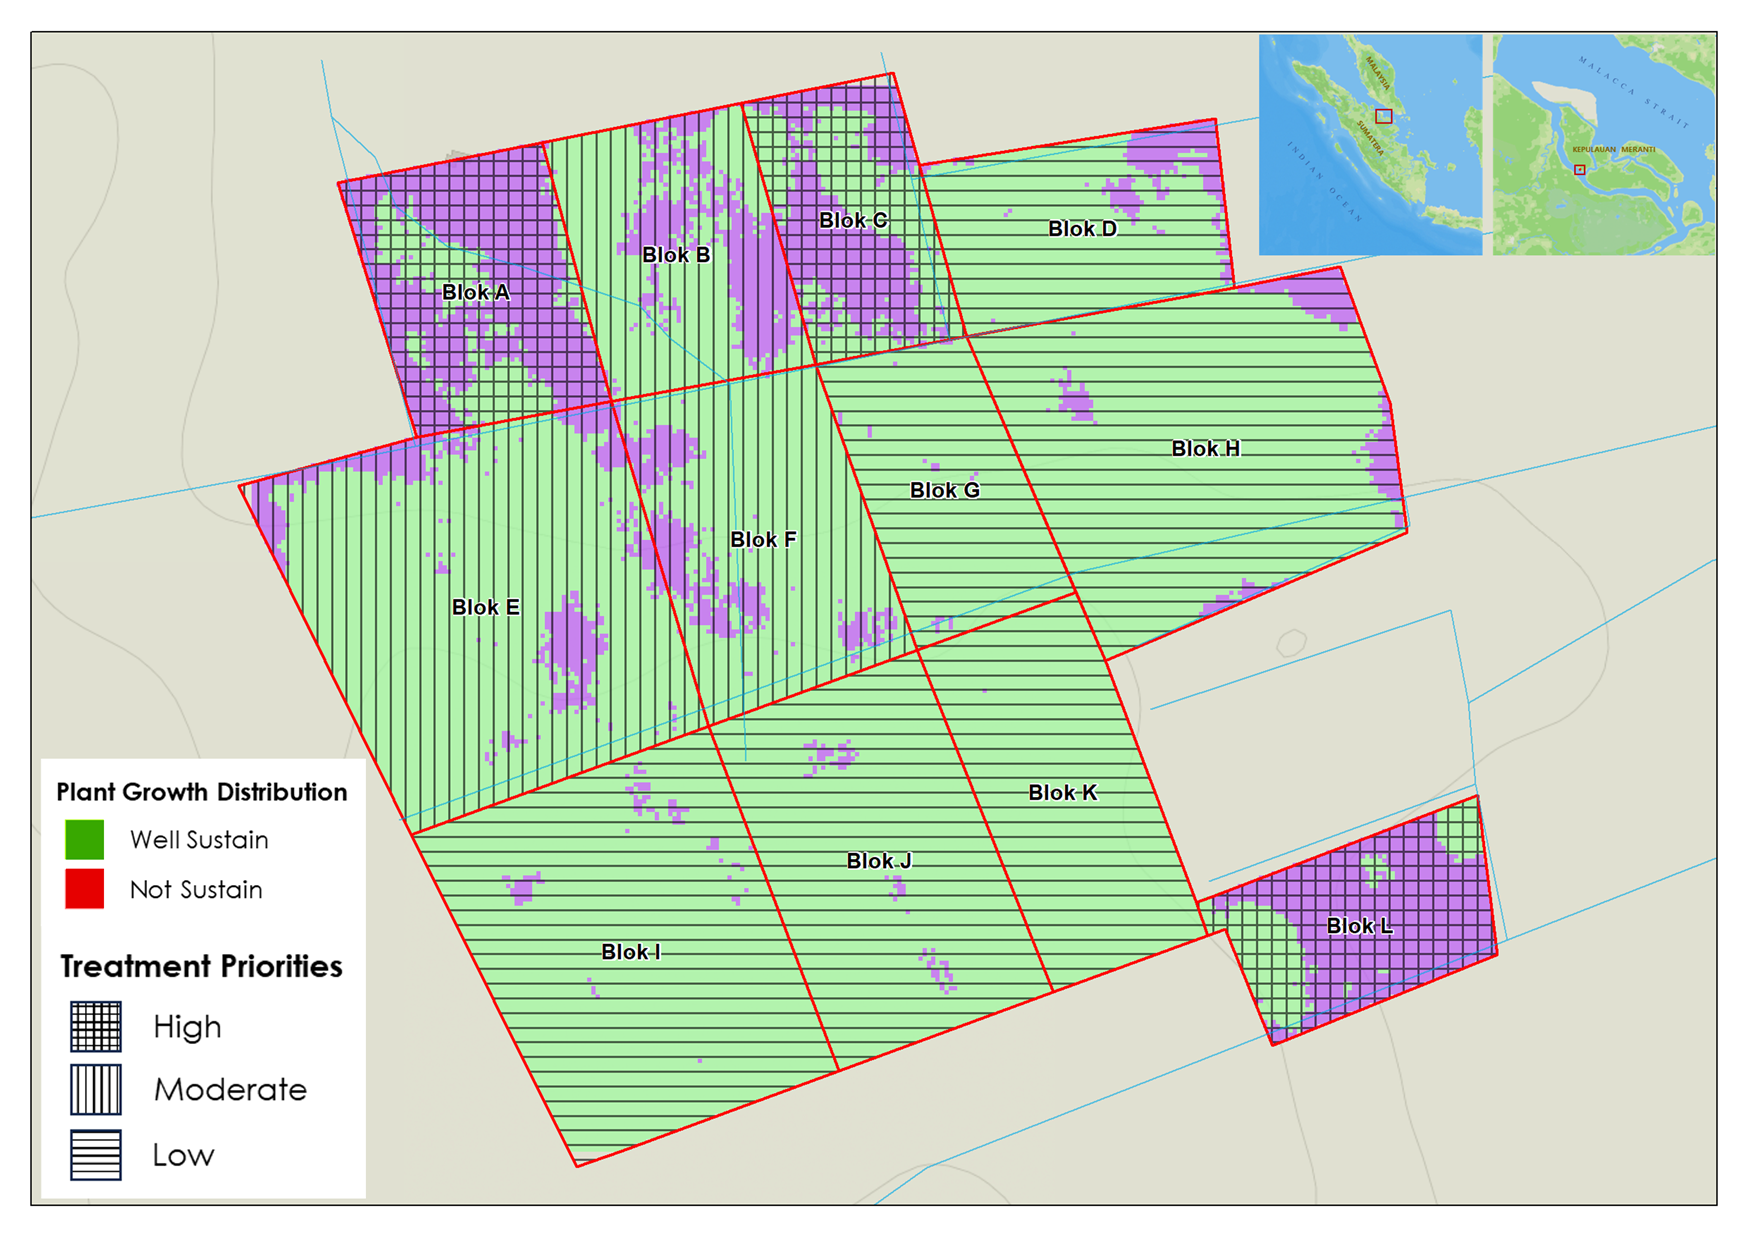
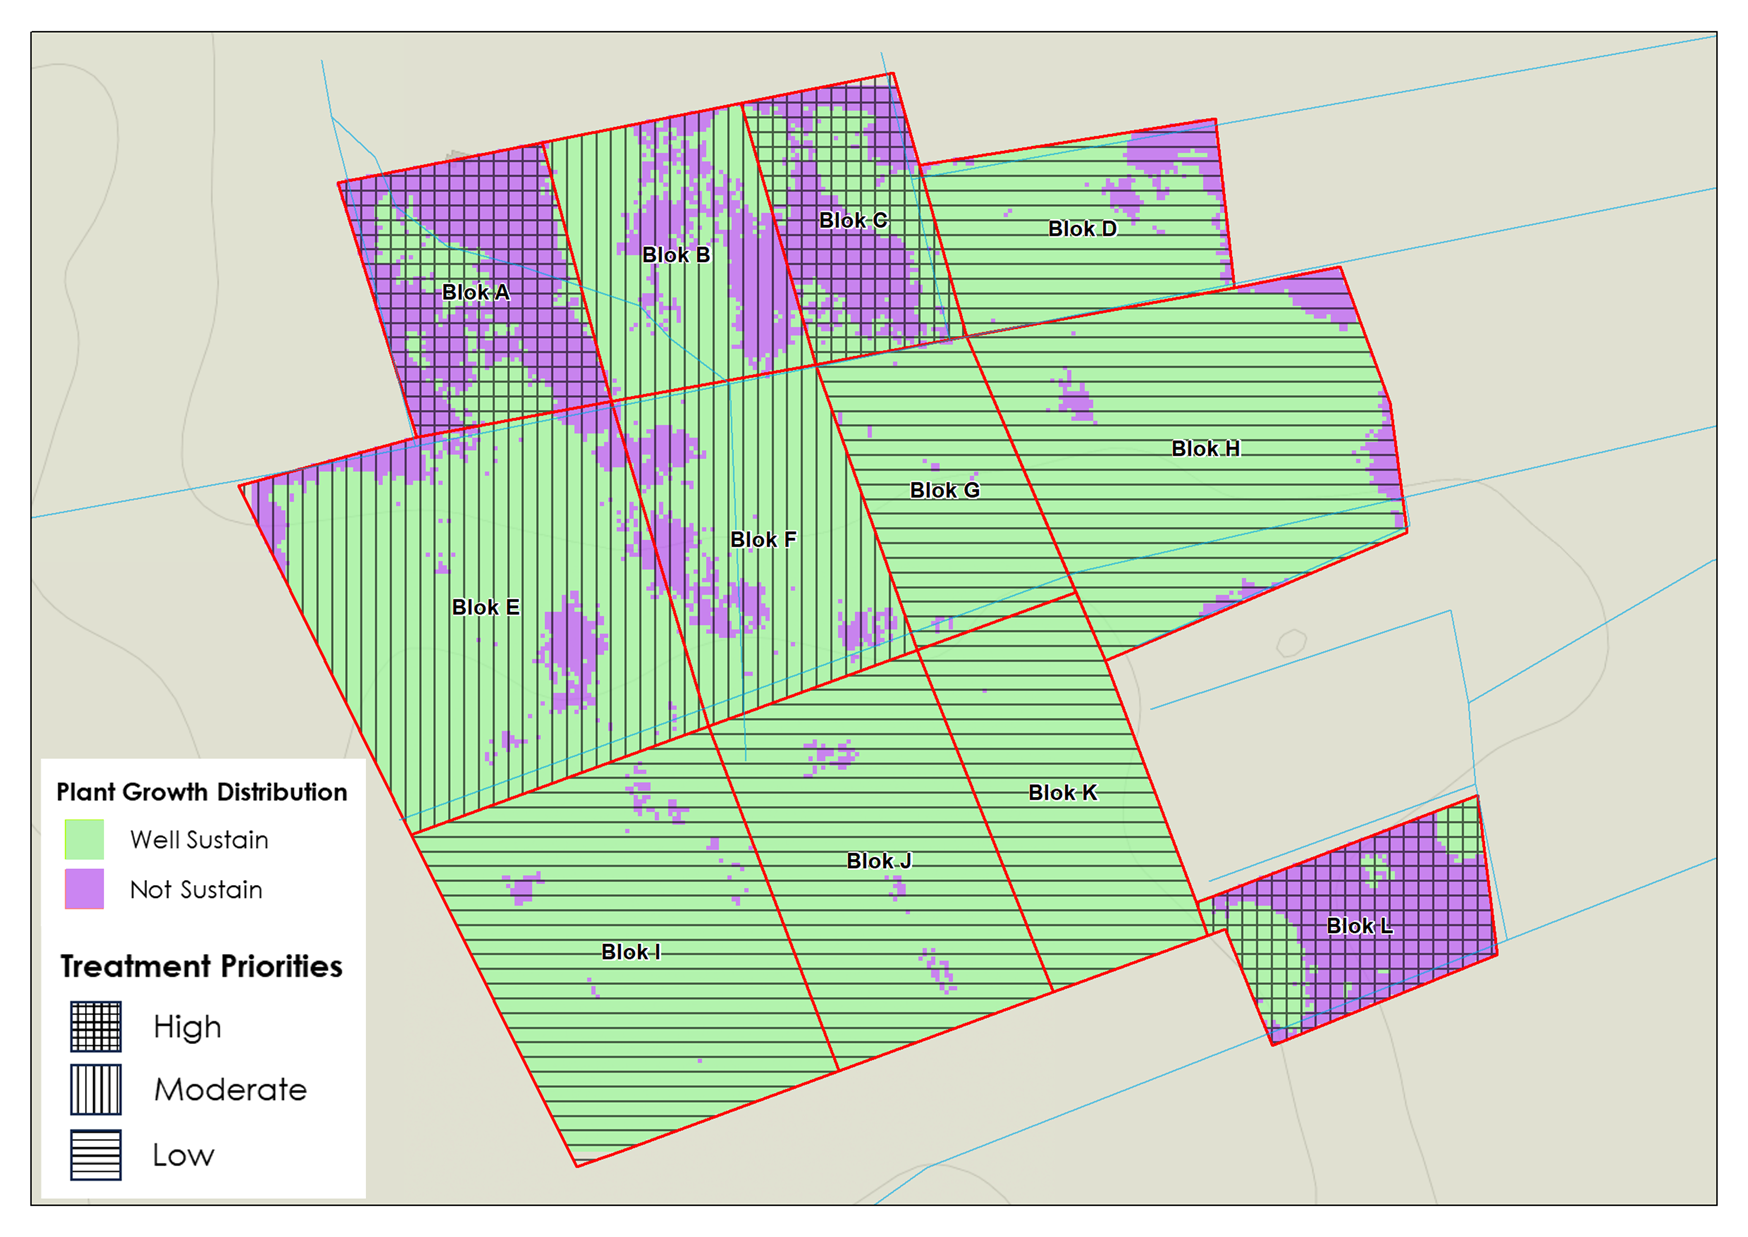
update content

Changed region(s): [[0.7105, 0.0, 0.9886, 0.215], [0.0309, 0.6451, 0.0618, 0.7373]]

diff --git a/portfolio/impact-assessment-for-peatland-canal-blocking.html b/portfolio/impact-assessment-for-peatland-canal-blocking.html
@@ -40,6 +40,23 @@
     justify-content: center;
 }
 
+.video-container {
+    width: 100%;
+    height: auto;
+    margin: 30px auto;
+    display: block;
+    align-items: center;
+    justify-content: center;
+    aspect-ratio: 16 / 9;
+}
+
+.video-container iframe {
+    width: 100%;
+    height: 100%;
+    border: none;
+    display: block;
+}
+
 /* TANGGAL */
 .article-date {
     font-size: 14px;
@@ -275,7 +292,7 @@ Works <span class="arrow">▾</span>
 <h2>Peatland Canal Blocking Impact Assessment</h2>
 
 <p class="article-date">
-Sat 28 Mar 2026 • 16:19 GMT by Spatiality
+Mon 6 Jun 2023 • 16:19 GMT by Spatiality
 </p>
 
 <div class="image-container">
@@ -288,21 +305,34 @@ Dipwell Specification and Placement Configuration.
 </p>
 
 <p>
-Back in my organization, MPA were fascilitate to execute some procedures to reduce the risk or peatland wildfire. The activities includes daily monitoring on dry season, wetting the peatland, and not limited to extinguish the hotspot. Wetting the peatland during dry season is exhausting and require operation expenses. To claim the expense, MPA group must create a report of their activity including the geotagged photo documentation. The hard work come after dozens of reports need to be verified by GIS officer. 
+Peatland hydrological system is quite unique and complex. Unlike watershed system, peatland system is more like a sponge, divided by major rivers as a peat hydrological unit. If watershed management is commonly focused on how to manage the water flow, peatland management is more focused on how to maintain the water level. The water level in peatland is crucial to maintain the ecosystem and prevent the risk of wildfire. One of the common practices to maintain the water level is by blocking the canal that was built for drainage or transportation.
+
 </p>
 
 <p>
-Bored seeing my co worker keep themselves busy doing so, I build a reporting app using ArcGIS Survey123 that can be filled out through browser or app wether offline or online. The workflow is simple, the mpa group only fill out the data required, photos, and their coordinate of activity, all in one app. The report can be stored to memory which later can be submitted once their device is online. The submitted report can be monitored through dashboard and the report can be generated in a single click to pdf.
+So, how does it work? The canal blocking is done by building a dam in the canal, then the water will be blocked and the water level will be maintained. The dam is built by using a material that can partially blocks water, like peat, wood, or membrane. The dam is built in a way that it can block water and maintain the water level, but it can also allow some water to flow through it to prevent flooding. Check the video below to learn how the canal blocking works
 </p>
 
+<div class="video-container">
+    <iframe
+        width="560"
+        height="315"
+        src="https://www.youtube.com/embed/_Xv_HR-CpUE"
+        title="YouTube video player"
+        frameborder="0"
+        allowfullscreen>
+    </iframe>
 </div>
-</div>
+<p class="image-caption">
+Rewetting The Degraded Peatland Through Canal BLocking.
+<span class="photo-credit">Documentation by Spatiality</span>
+</p>
 
 <p>
-This app is not limited to a specific activity. Other uses like inventory, census, scientific survey, etc can be implemented using this app.
+I engage local communities to install the diwpells nearby the canal blocking site to monitor the water level. The diwpells are installed in a way that they can measure the water level in the peatland and the canal, so we can compare the water level before and after the canal blocking. Dipwells should be installed before the canal blocking is built to get the baseline data, and then after the canal blocking is finished to get the impact data. The data should be collected during the dry season to avoid disturbance input from rainfall. The data collected from the diwpells will be used to assess the impact of the canal blocking on the water level in the peatland and the canal. The data will be analyzed to see if there is a significant change in the water level after the canal blocking, and if there is a significant change, we can conclude that the canal blocking has an impact on the water level in the peatland and the canal.
 </p>
 
-<h2>Custom Toolbox</h2>
+<h2>Monitoring Setup</h2>
 
 <div class="background-section">
 
@@ -315,10 +345,42 @@ Installation, Data Collecting, and Analysis.
 <span class="photo-credit">Documentation by Spatiality</span>
 </p>
 
+<h2>Result</h2>
+
 <p>
-As they go all the place to map farmer’s land, I build a toolbox to automate the data compilation processing in bulk. The workflow is simple but require some lines of python code for additional process. The exported data from Avenza Map is in kmz, I converted to shapefile then input it to the toolbox to do all the hard work. These are data structure tidying, codification, calculating area, pull data for land zone utilization, peatland, concession, and built up coverage.
+So, there are two water level data, the baseline and the impact. Both data were interpolated to get the water level distribution in the peatland and the canal. Then, the water level distribution before and after the canal blocking were calculated using cut and fill method to estimate the impacted area and water conserved during the dry season. See the water level profile graph below, the blue dashed line is the water level before the canal blocking, and the green dashed line is the water level after the canal blocking. The graph shows that there is a significant increase in the water level after the canal blocking, which indicates that the canal blocking has an impact on the water level in the peatland.
 
 </p>
+
+<div class="background-section">
+
+<div class="image-container">
+    <img src="../assets/media/PCB5.png" alt="Installation, Data Collecting, and Analysis">
+</div>
+
+<p class="image-caption">
+3d Section View Between Ground Layer and Water Level.
+<span class="photo-credit">Documentation by Spatiality</span>
+
+<div class="background-section">
+
+<div class="image-container">
+    <img src="../assets/media/PCB6.png" alt="Installation, Data Collecting, and Analysis">
+</div>
+
+<p class="image-caption">
+Water Table Distribution, Before (Left) and After (Right).
+<span class="photo-credit">Documentation by Spatiality</span>
+
+<div class="background-section">
+
+<div class="image-container">
+    <img src="../assets/media/PCB3.png" alt="Installation, Data Collecting, and Analysis">
+</div>
+
+<p class="image-caption">
+Water Level Profile Graph.
+<span class="photo-credit">Documentation by Spatiality</span>
 
 </div>
 
@@ -423,7 +485,7 @@ style="background-image:url('../assets/media/me.jpeg')"></div>
 <footer>
 
 <div class="copyright">
-© 2026 - Krishna Wijaya
+© 2026 - Spatiality
 </div>
 
 <div class="footer-icons">

diff --git a/portfolio/infrastructure-monitoring.html b/portfolio/infrastructure-monitoring.html
@@ -308,7 +308,7 @@ Monitoring Result.
 </p>
 
 <p>
-Once it’s all set, I generate a report including the monitoring results, repairment recommendations and its budget. See the picture below for the results from this monitoring assessment. The report is generated in a night, which was impossible back then when using a paper form. The report is used for internal use and also for the donor as the project’s accountability.
+Once it’s all set, I generate a report including the monitoring results, repairment recommendations and its budget. See the picture below for the results from this monitoring assessment. The report is generated in a night, which was impossible back then when using a paper form. The report is used for internal use and also for the donor as the project’s accountability. I also adopt this workflow for similar rapid assessment such as locating a new plot for new canal blocks establishment, dipwell monitoring, plantation monitoring, measuring land plot, and other inventory projects
 
 </p>
 
@@ -414,7 +414,7 @@ style="background-image:url('../assets/media/me.jpeg')"></div>
 <footer>
 
 <div class="copyright">
-© 2026 - Krishna Wijaya
+© 2026 - Spatiality
 </div>
 
 <div class="footer-icons">

diff --git a/portfolio/collaborative-mapping.html b/portfolio/collaborative-mapping.html
@@ -427,7 +427,7 @@ style="background-image:url('../assets/media/me.jpeg')"></div>
 <footer>
 
 <div class="copyright">
-© 2026 - Krishna Wijaya
+© 2026 - Spatiality
 </div>
 
 <div class="footer-icons">

diff --git a/portfolio/drone-mapping-for-mangrove-rehabilitation.html b/portfolio/drone-mapping-for-mangrove-rehabilitation.html
@@ -424,7 +424,7 @@ style="background-image:url('../assets/media/me.jpeg')"></div>
 <footer>
 
 <div class="copyright">
-© 2026 - Krishna Wijaya
+© 2026 - Spatiality
 </div>
 
 <div class="footer-icons">

diff --git a/portfolio/drone-mapping-for-revegetation-monitoring.html b/portfolio/drone-mapping-for-revegetation-monitoring.html
@@ -422,7 +422,7 @@ style="background-image:url('../assets/media/me.jpeg')"></div>
 <footer>
 
 <div class="copyright">
-© 2026 - Krishna Wijaya
+© 2026 - Spatiality
 </div>
 
 <div class="footer-icons">

diff --git a/portfolio/groundwater-flow-mapping.html b/portfolio/groundwater-flow-mapping.html
@@ -429,7 +429,7 @@ style="background-image:url('../assets/media/me.jpeg')"></div>
 <footer>
 
 <div class="copyright">
-© 2026 - Krishna Wijaya
+© 2026 - Spatiality
 </div>
 
 <div class="footer-icons">

diff --git a/portfolio/groundwater-vulnerability-assessment.html b/portfolio/groundwater-vulnerability-assessment.html
@@ -424,7 +424,7 @@ style="background-image:url('../assets/media/me.jpeg')"></div>
 <footer>
 
 <div class="copyright">
-© 2026 - Krishna Wijaya
+© 2026 - Spatiality
 </div>
 
 <div class="footer-icons">

diff --git a/portfolio/plant-cencus-mapping.html b/portfolio/plant-cencus-mapping.html
@@ -473,7 +473,7 @@ style="background-image:url('../assets/media/me.jpeg')"></div>
 <footer>
 
 <div class="copyright">
-© 2026 - Krishna Wijaya
+© 2026 - Spatiality
 </div>
 
 <div class="footer-icons">

diff --git a/portfolio/reporting-app.html b/portfolio/reporting-app.html
@@ -423,7 +423,7 @@ style="background-image:url('../assets/media/me.jpeg')"></div>
 <footer>
 
 <div class="copyright">
-© 2026 - Krishna Wijaya
+© 2026 - Spatiality
 </div>
 
 <div class="footer-icons">

diff --git a/portfolio/saltwater-intrusion-assessment.html b/portfolio/saltwater-intrusion-assessment.html
@@ -425,7 +425,7 @@ style="background-image:url('../assets/media/me.jpeg')"></div>
 <footer>
 
 <div class="copyright">
-© 2026 - Krishna Wijaya
+© 2026 - Spatiality
 </div>
 
 <div class="footer-icons">

diff --git a/about.html b/about.html
@@ -202,7 +202,7 @@ climate analysis</a>, standard carbon verification</li>
 <footer>
 
 <div class="copyright">
-© 2026 - Krishna Wijaya
+© 2026 - Spatiality
 </div>
 
 <div class="footer-icons">

diff --git a/index.html b/index.html
@@ -119,7 +119,7 @@ Spotlight project: Road Ballad of Didi Kempot
 <footer>
 
 <div class="copyright">
-© 2026 - Krishna Wijaya
+© 2026 - Spatiality
 </div>
 
 <div class="footer-icons">
